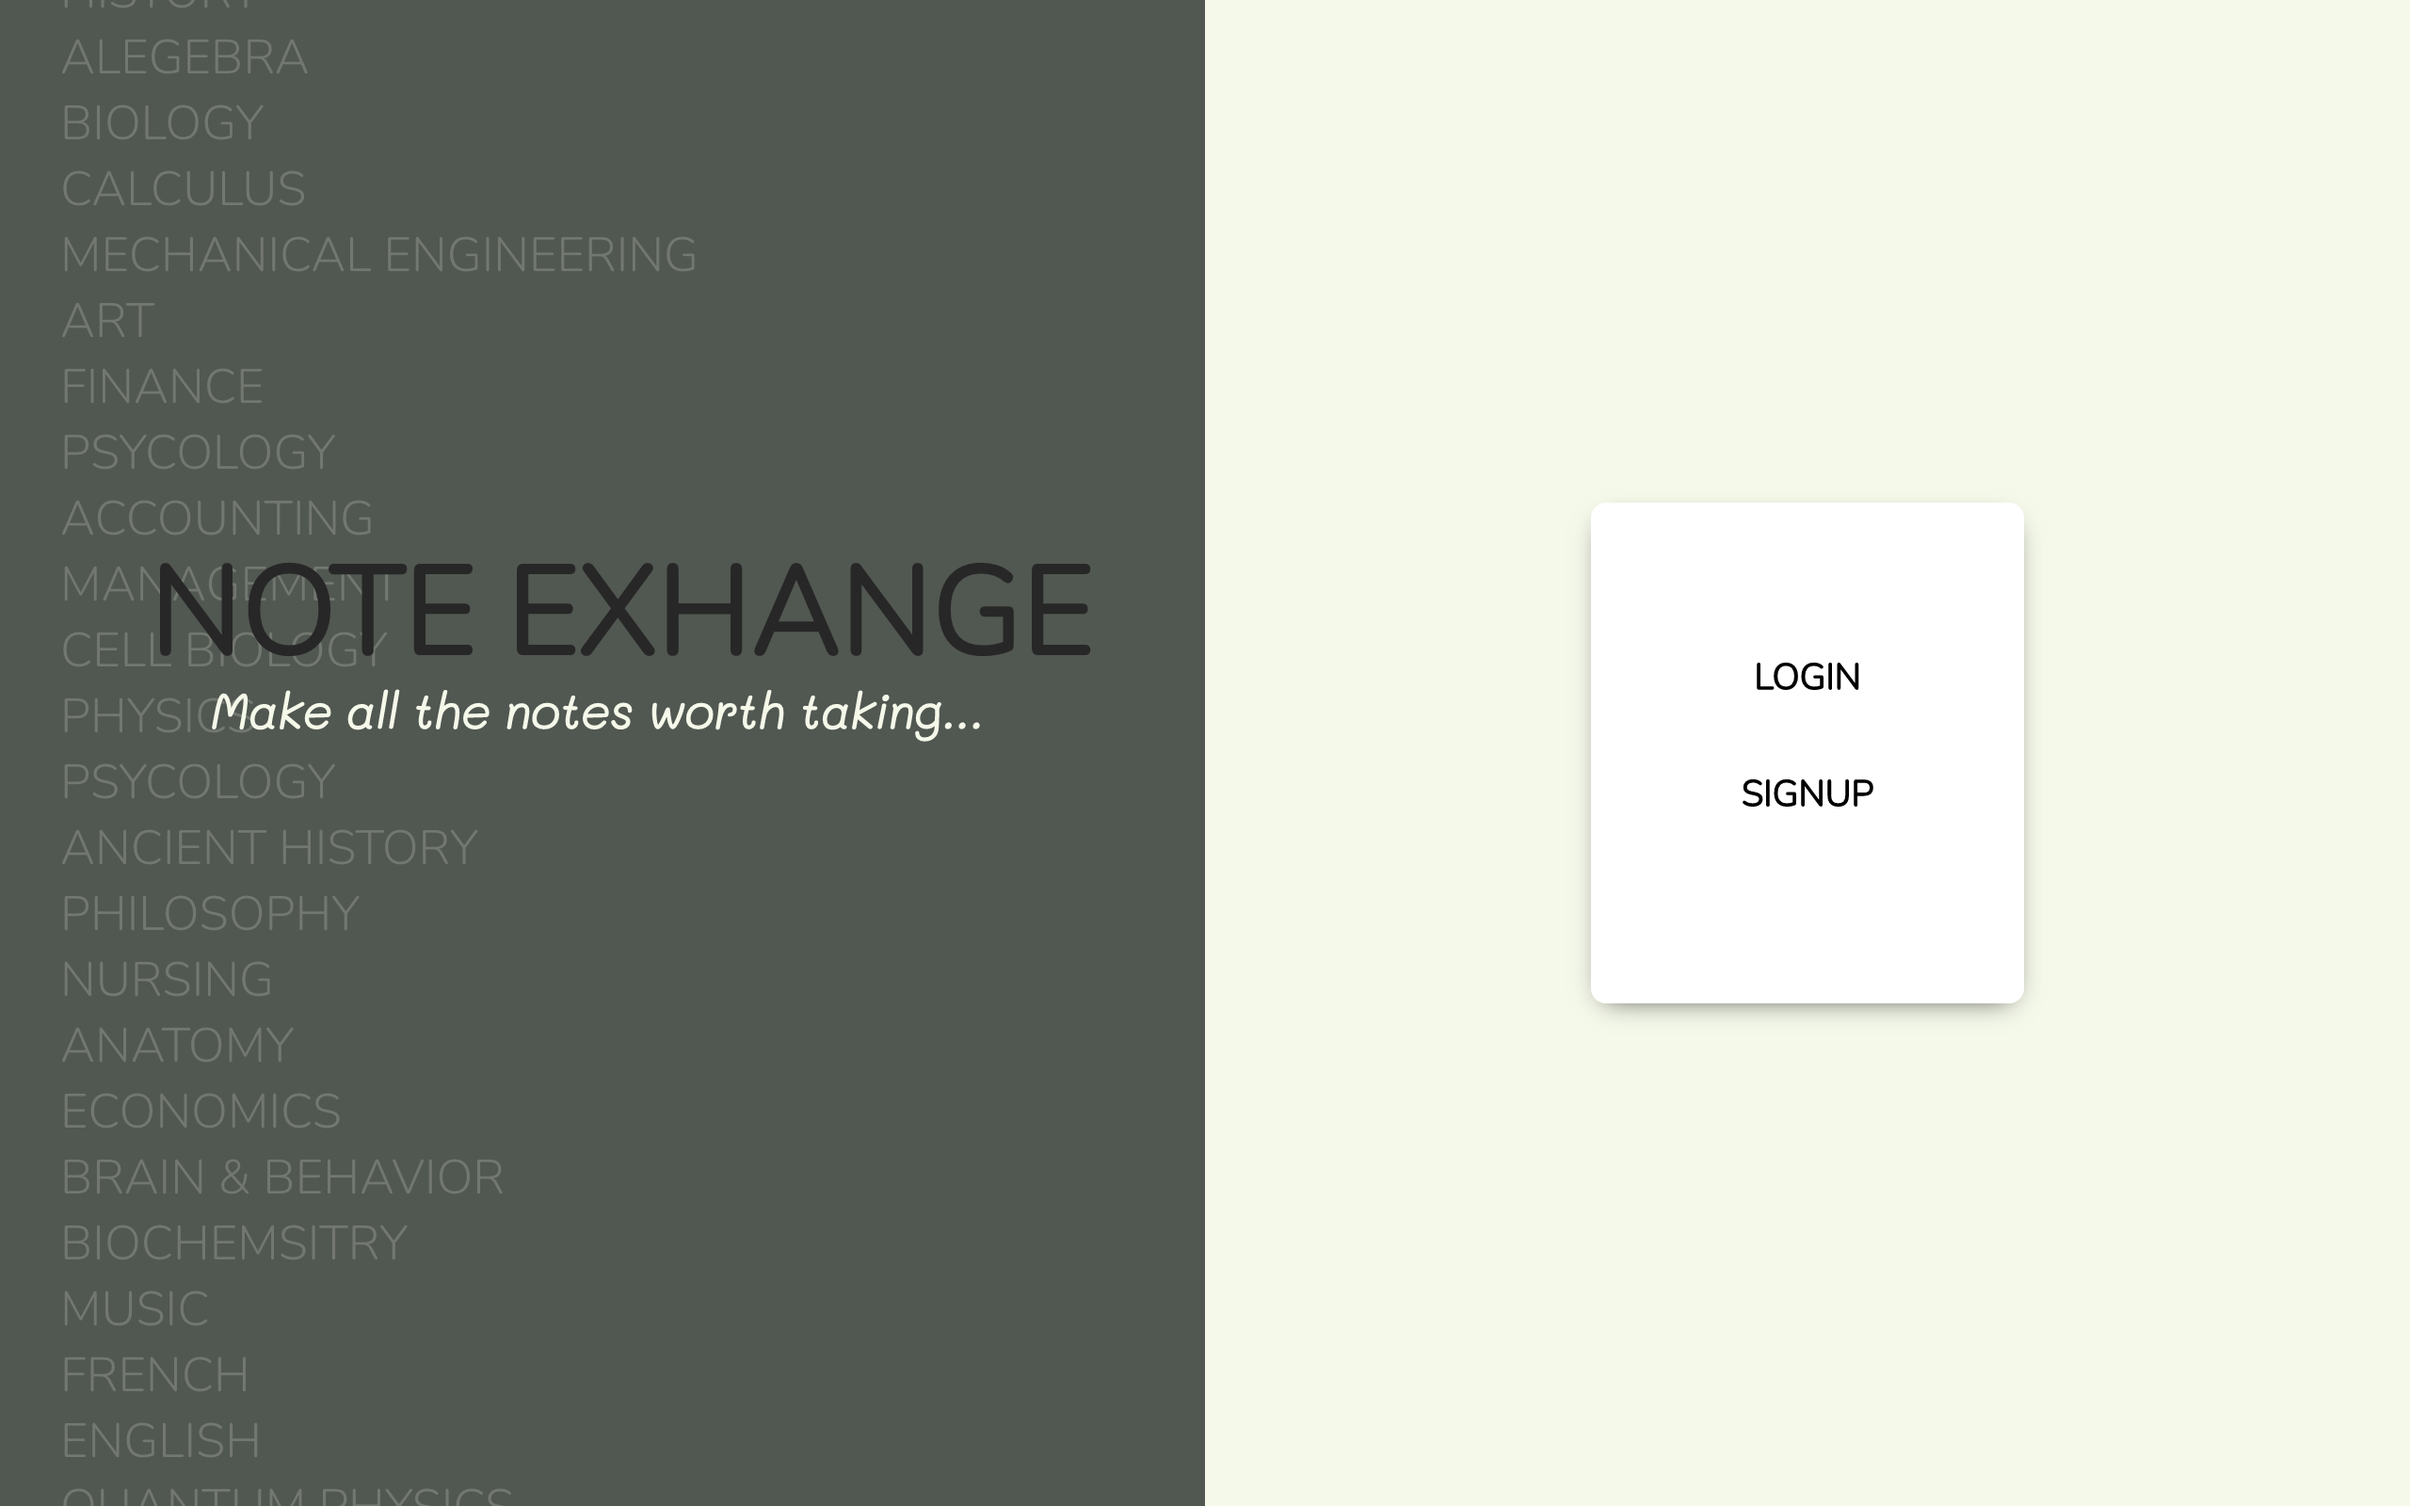
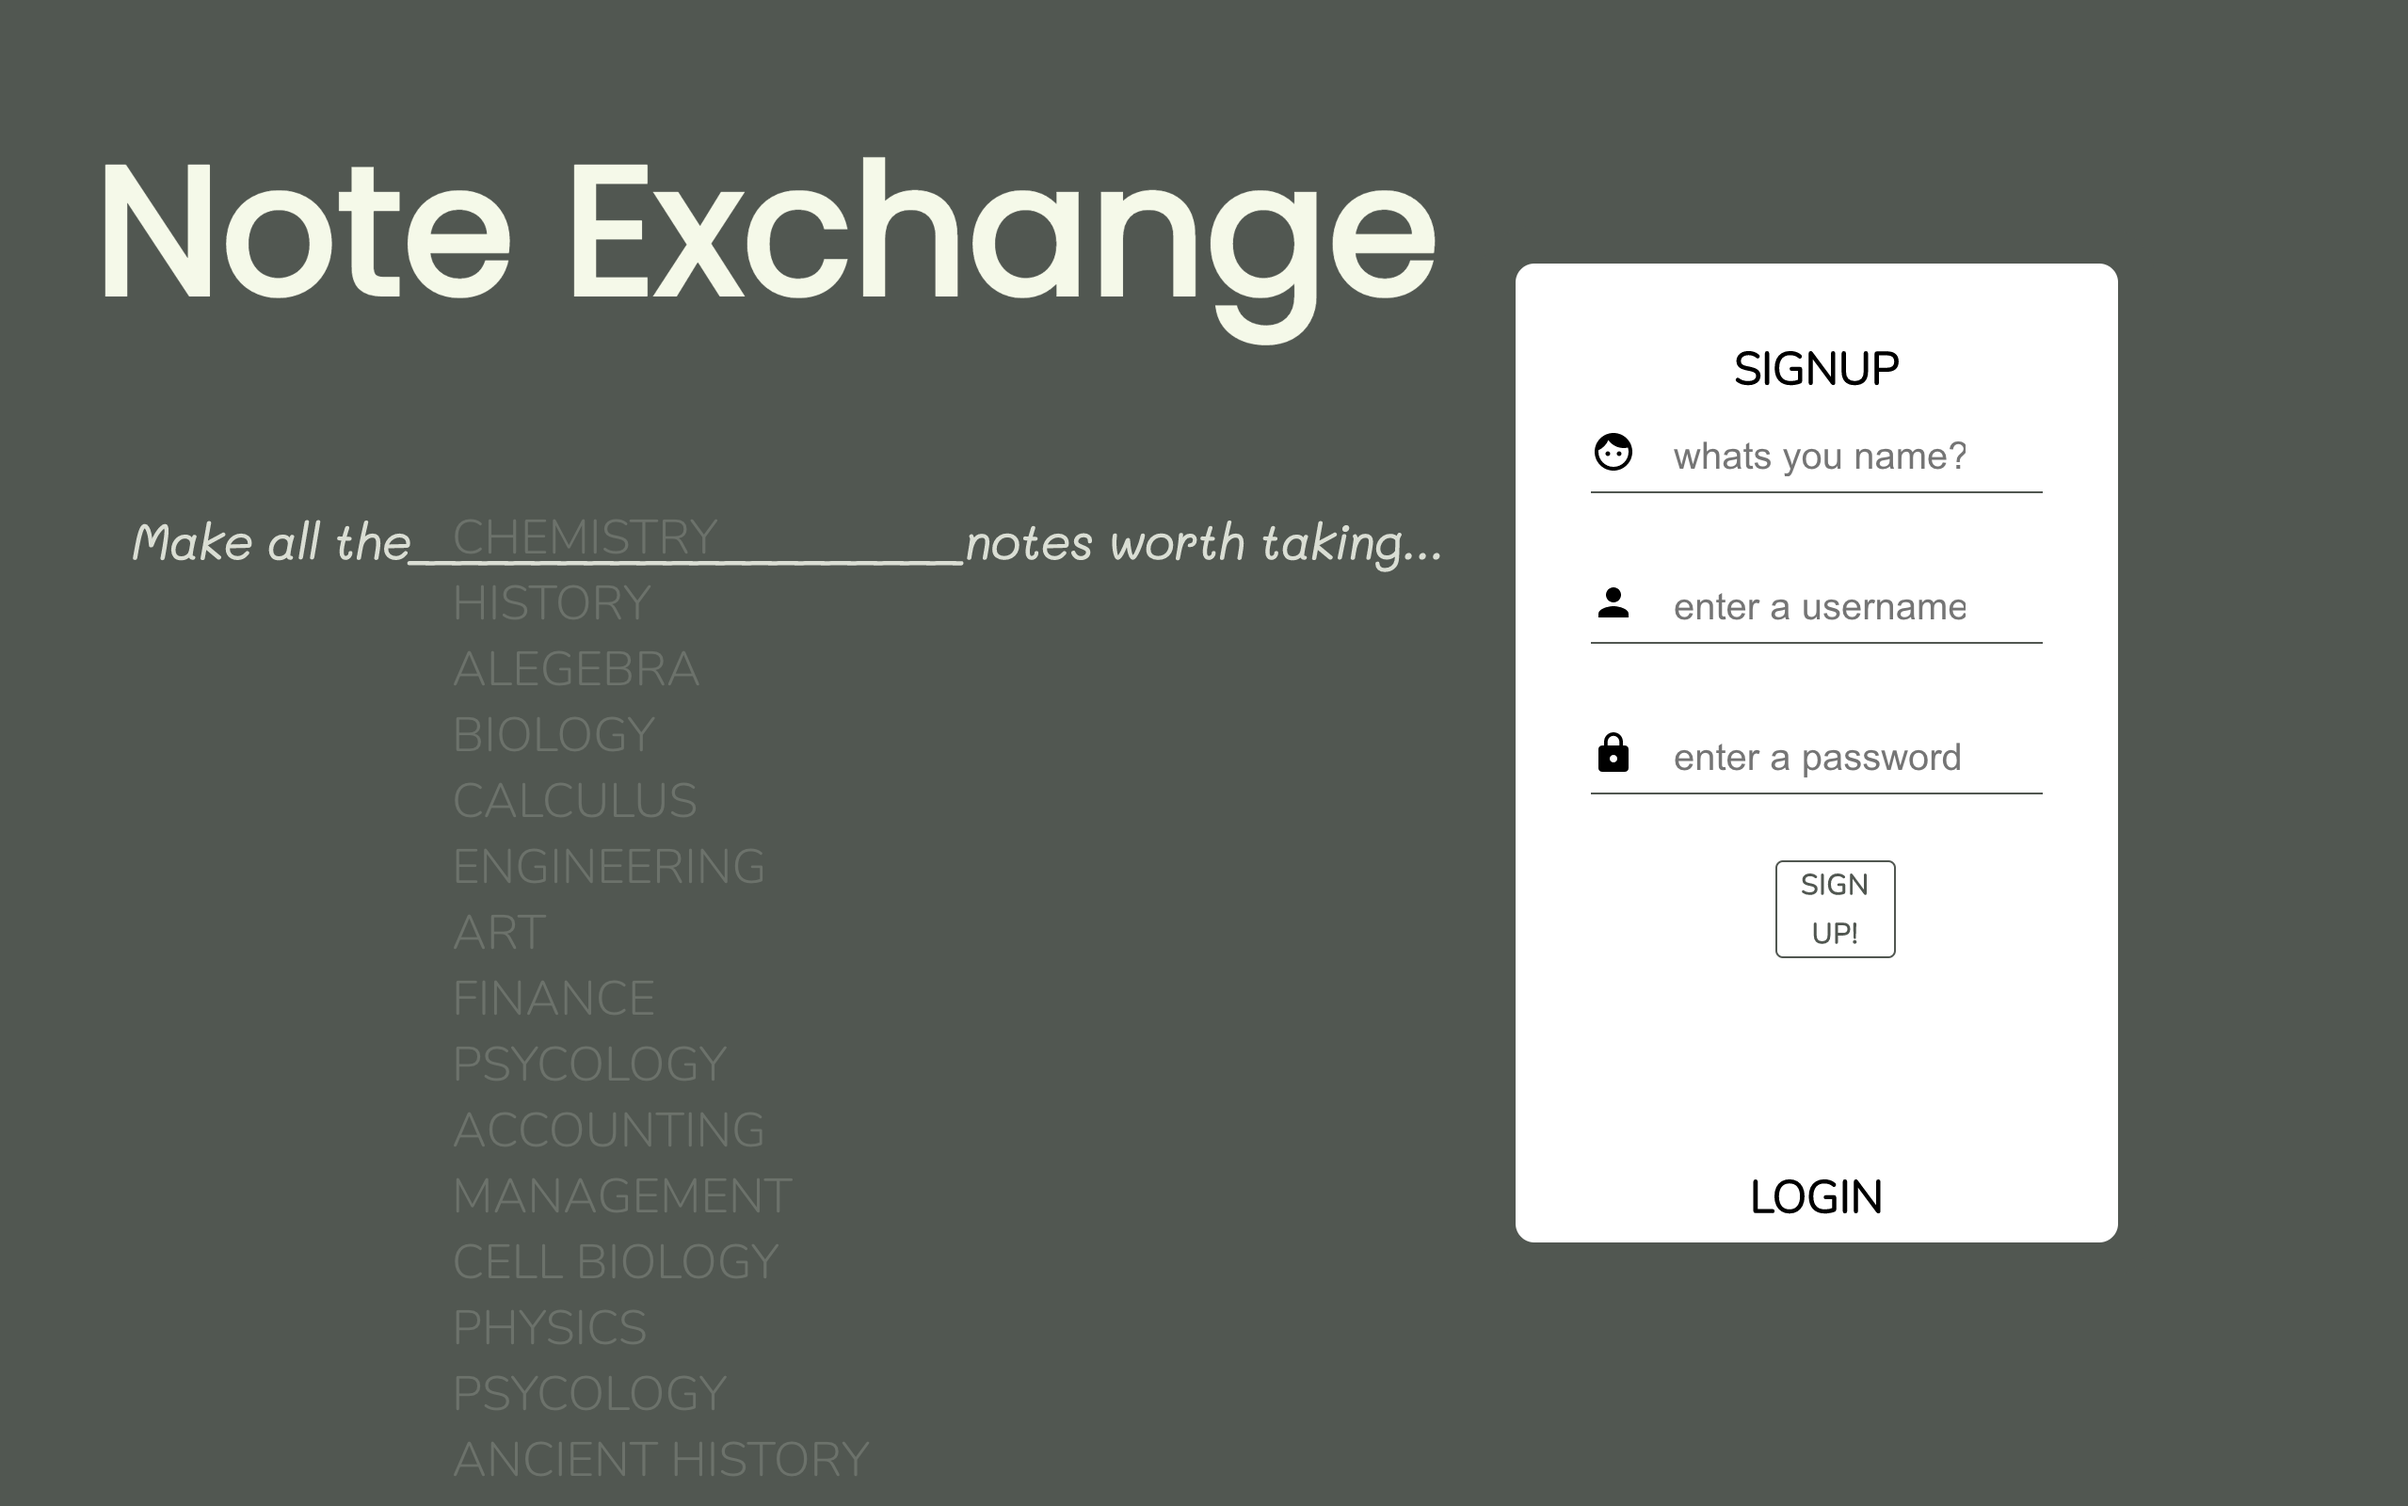
responsive Design

diff --git a/portfolio-app/src/Header.css b/portfolio-app/src/Header.css
@@ -20,7 +20,7 @@ body{
   
   .Header__header{
     overflow-x:none;
-    z-index: 2;
+    z-index: 999;
     font-family: 'Poppins', sans-serif;
     position: fixed;
     /* left:500px; */
@@ -31,37 +31,26 @@ body{
     left: 0px;
     right:0px;
   top:0px;
-  width:100%;
+  width:195vh;
+  height: 20vh;
   /* box-shadow: 0px 6px 18px -0px #363020; */
   /* box-shadow: 0px 6px 18px -0px #363020; */
-
-  }
-  .Header__header.active{
-    overflow-x:none;
-    z-index: 2;
-    font-family: 'Poppins', sans-serif;
-    position: fixed;
-     box-shadow: 0px 6px 18px -0px #363020;
-     background-color: #202020;
-     /* border-radius: 10px; */
-     bottom: 950px;
-     margin-top: 0px;
-     left: 0px;
-     right:0px;
-   top:0px;
-   width:100%;
-  }
-
-.Header__header h1{
-    font-family: 'Poiret One', cursive;
-    font-size: 600%;
-    margin: 0px;
-    color:#fae588;
-    opacity: 0.7;
 
   }
   
-.Header__header p {
+  .Header__header h1{
+  display: flex;
+    font-family: 'Poiret One', cursive;
+    font-size: 600%;
+    margin: 0px;
+    margin-right: 10vh;
+    color:#fae588;
+    opacity: 0.7;
+    align-items: center;
+    justify-content: center;
+  }
+  
+  .Header__header p {
     color:#fae588;
     margin: 0px;
     margin-bottom: 10px;
@@ -91,21 +80,53 @@ body{
   }
   
   .buttons{
-  position: fixed;
-  display: flex;
-  flex-direction: row;
-  justify-items: center;
-  align-content: center;
-  margin-left:1105px;
+    position: fixed;
+    display: flex;
+    flex-direction: row;
+    justify-items: center;
+    align-content: center;
+    margin-left:1105px;
   }
-  
+
+
+
+@media(min-width: 100px){
+
+  .Header__header h1{
+    display: flex;
+      font-family: 'Poiret One', cursive;
+      font-size: 600%;
+      margin: 0px;
+      margin-right: 10vh;
+      color:#fae588;
+      opacity: 0.7;
+      align-items: center;
+      justify-content: center;
+    }
+  .Header__header.active{
+    overflow-x:none;
+    z-index: 2;
+    font-family: 'Poppins', sans-serif;
+    position: fixed;
+     box-shadow: 0px 6px 18px -0px #363020;
+     background-color: #202020;
+     /* border-radius: 10px; */
+     bottom: 950px;
+     margin-top: 0px;
+     left: 0px;
+     right:0px;
+   top:0px;
+   width:195vh;
+   height: 30vh;
+  }
+
   .links{
     position: relative !important;
-  width: 35px;
-  height: 30px;
+    width: 3.3vh;
+    height: 3vh;
   color:#fae588 !important;
   opacity: 0.7 !important; 
-  bottom: 10.5px;
+  bottom: 2vh;
 
   }
   
@@ -115,7 +136,69 @@ body{
   height: 33px !important;
   color:#fae588 !important;
   opacity: 0.7 !important; 
-  bottom: 09px;
+  bottom: 1.2vh;
+  }
+  .Header__header p {
+    color:#fae588;
+    margin: 0px;
+    margin-bottom: 2vh;
+  }
+}
+
+
+
+  @media (min-width: 1500px){
+
+  .Header__header h1{
+    display: flex;
+      font-family: 'Poiret One', cursive;
+      font-size: 600%;
+      margin: 0px;
+      color:#fae588;
+      opacity: 0.7;
+      align-items: center;
+      justify-content: center;
+    }
+    .Header__header p {
+      color:#fae588;
+      margin: 0px;
+      margin-bottom: 10px;
+    }
+    .Header__header.active{
+      overflow-x:none;
+      z-index: 2;
+      font-family: 'Poppins', sans-serif;
+      position: fixed;
+       box-shadow: 0px 6px 18px -0px #363020;
+       background-color: #202020;
+       /* border-radius: 10px; */
+       bottom: 950px;
+       margin-top: 0px;
+       left: 0px;
+       right:0px;
+     top:0px;
+     width:195vh;
+     height: 27vh;
+  
+    }
+    .links{
+      position: relative !important;
+      width: 3.3vh;
+      height: 3vh;
+    color:#fae588 !important;
+    opacity: 0.7 !important; 
+    bottom: 1.5vh;
+  
+    }
+    
+    .resume{
+        position: relative !important;
+    width: 40px !important;
+    height: 33px !important;
+    color:#fae588 !important;
+    opacity: 0.7 !important; 
+    bottom: 1.2vh;
+    }
   }
   
   .App__rest{
